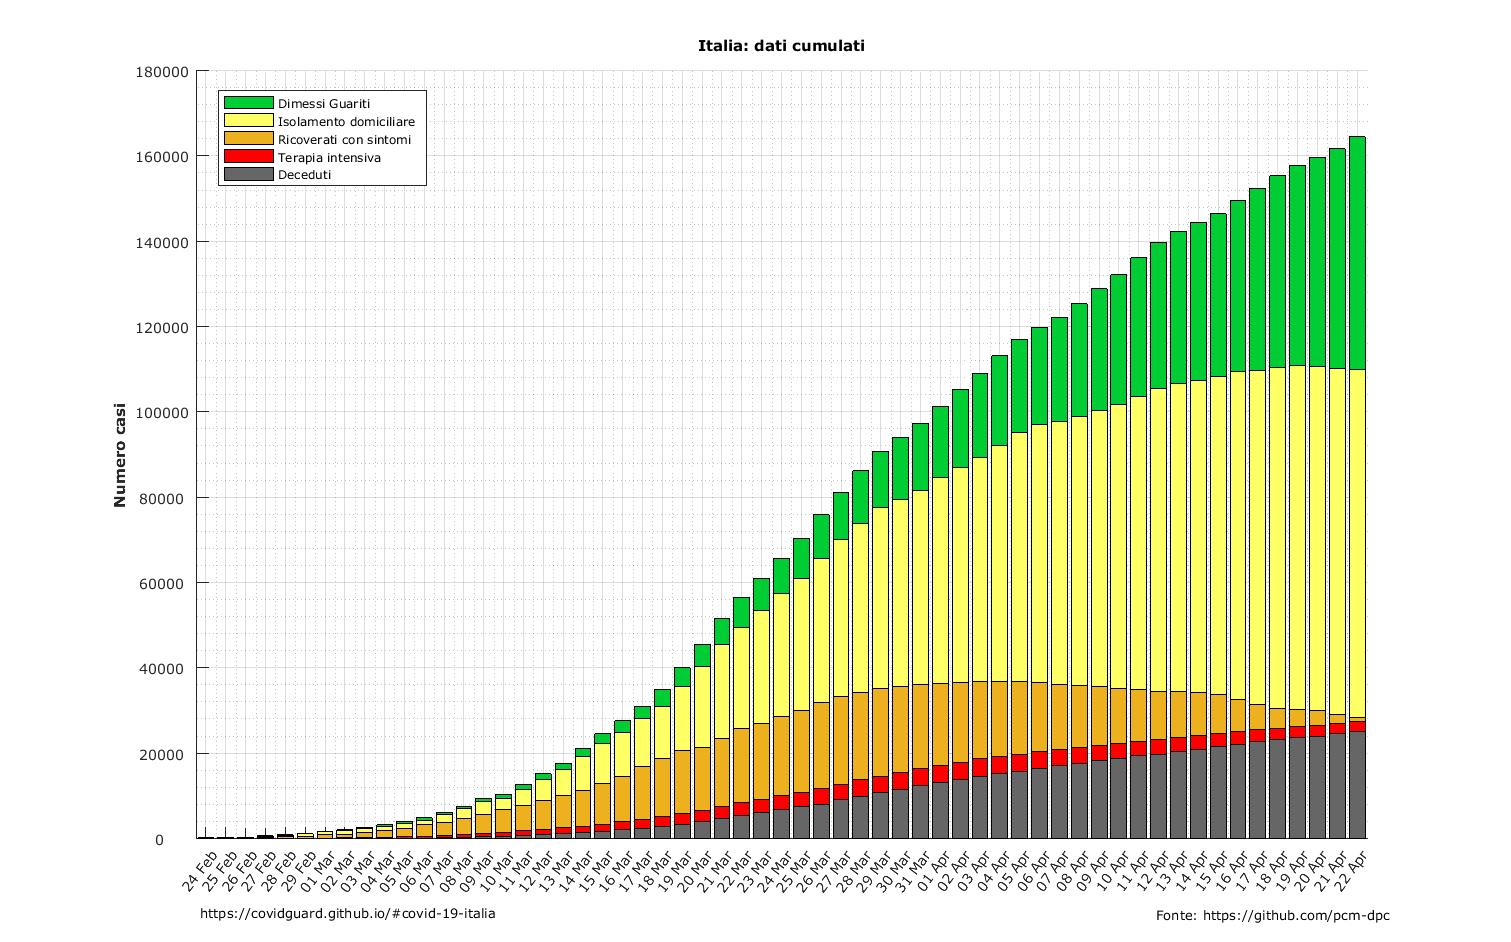
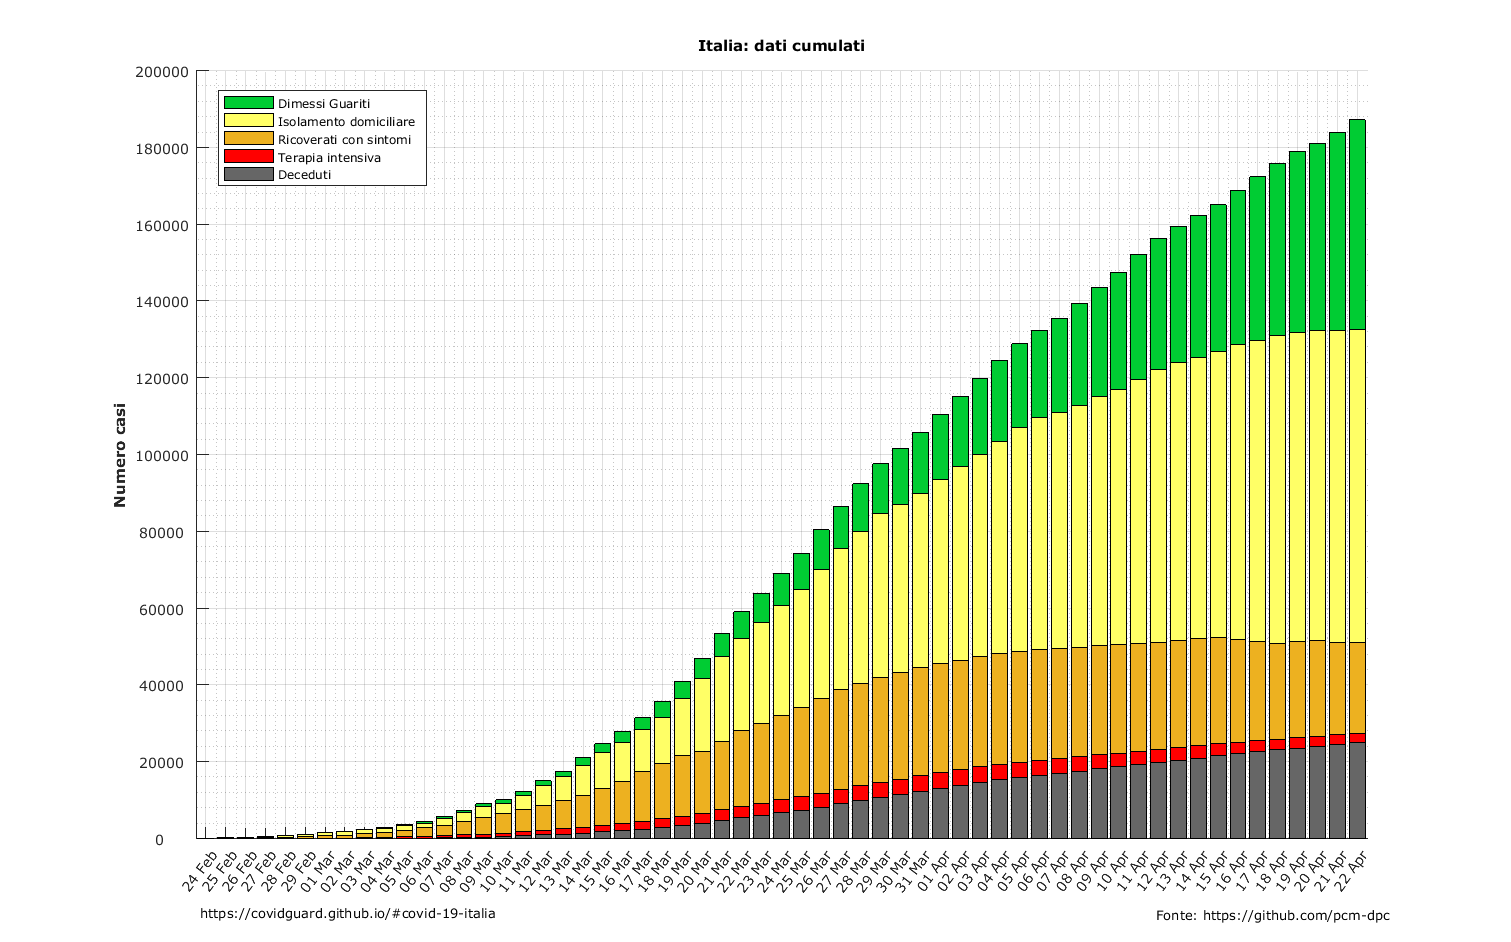
Fixing Italia cumulati

diff --git a/code/Analyse_gompertz.m b/code/Analyse_gompertz.m
@@ -1191,7 +1191,7 @@ hold on
 grid minor; grid on
 
 
-bbb=[data(:,1)';data(:,2)';data(:,3)'-data(:,1)';data(:,4)';data(:,5)'];
+bbb=[data(:,1)';data(:,2)';data(:,3)'-data(:,2)';data(:,4)';data(:,5)'];
 
 bbbar = bar(bbb','stacked'); hold on
 set(bbbar(1),'FaceColor',[0.400000005960464 0.400000005960464 0.400000005960464]);
